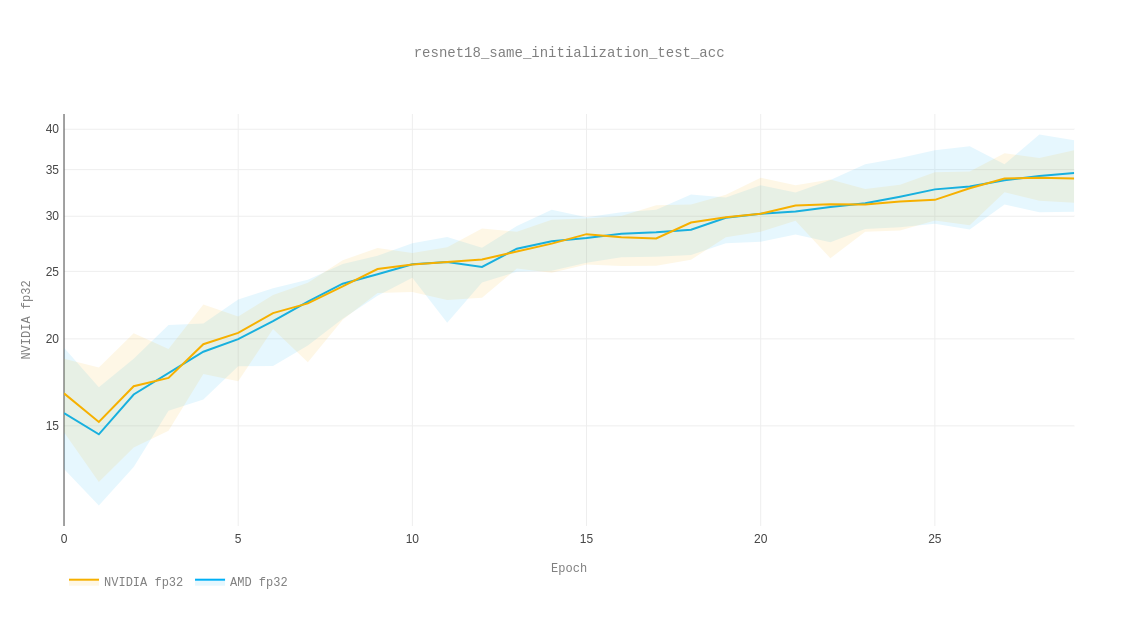
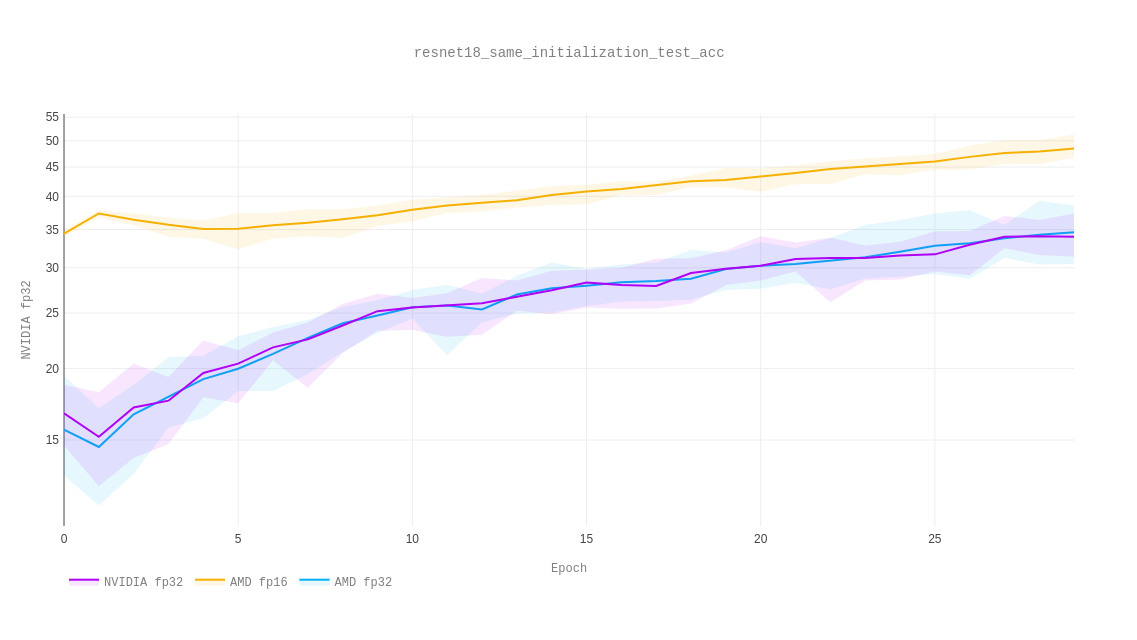
tweak HP

diff --git a/reproducibility/convnets.py b/reproducibility/convnets.py
@@ -28,7 +28,7 @@ parser.add_argument('--seed', '-s', type=int, default=0, help='seed to use')
 parser.add_argument('--epochs', '-e', type=int, default=30, help='number of epochs')
 
 parser.add_argument('--arch', '-a', metavar='ARCH', default='convnet')
-parser.add_argument('--lr', '--learning-rate', default=0.001, type=float, metavar='LR')
+parser.add_argument('--lr', '--learning-rate', default=0.1, type=float, metavar='LR')
 parser.add_argument('--momentum', default=0.9, type=float, metavar='MT')
 parser.add_argument('--opt-level', default='O0', type=str)
 parser.add_argument('--shape', nargs='*', default=(3, 32, 32))
@@ -124,7 +124,8 @@ criterion = nn.CrossEntropyLoss().to(device)
 optimizer = torch.optim.SGD(
     model.parameters(),
     args.lr,
-    args.momentum
+    args.momentum,
+    weight_decay=5e-4
 )
 
 # ----

diff --git a/reproducibility/plot.py b/reproducibility/plot.py
@@ -215,7 +215,7 @@ for m, name in [('test_acc', 'Test Accuracy'), ('train_loss', 'Train Loss'), ('t
     curves_1 = []
     files = [
         (f'{BASE}/results/resnet18_amd_1.json', f'AMD fp32'),
-        # (f'{BASE}/results/amd_fp16_1.json', f'AMD fp16'),
+        (f'{BASE}/results/resnet18_amd_fp16_1.json', f'AMD fp16'),
         (f'{BASE}/results/resnet18_nvidia_1.json', f'NVIDIA fp32'),
         # (f'{BASE}/results/nvidia_p100_fp16_1.json', f'NVIDIA fp16')
     ]
